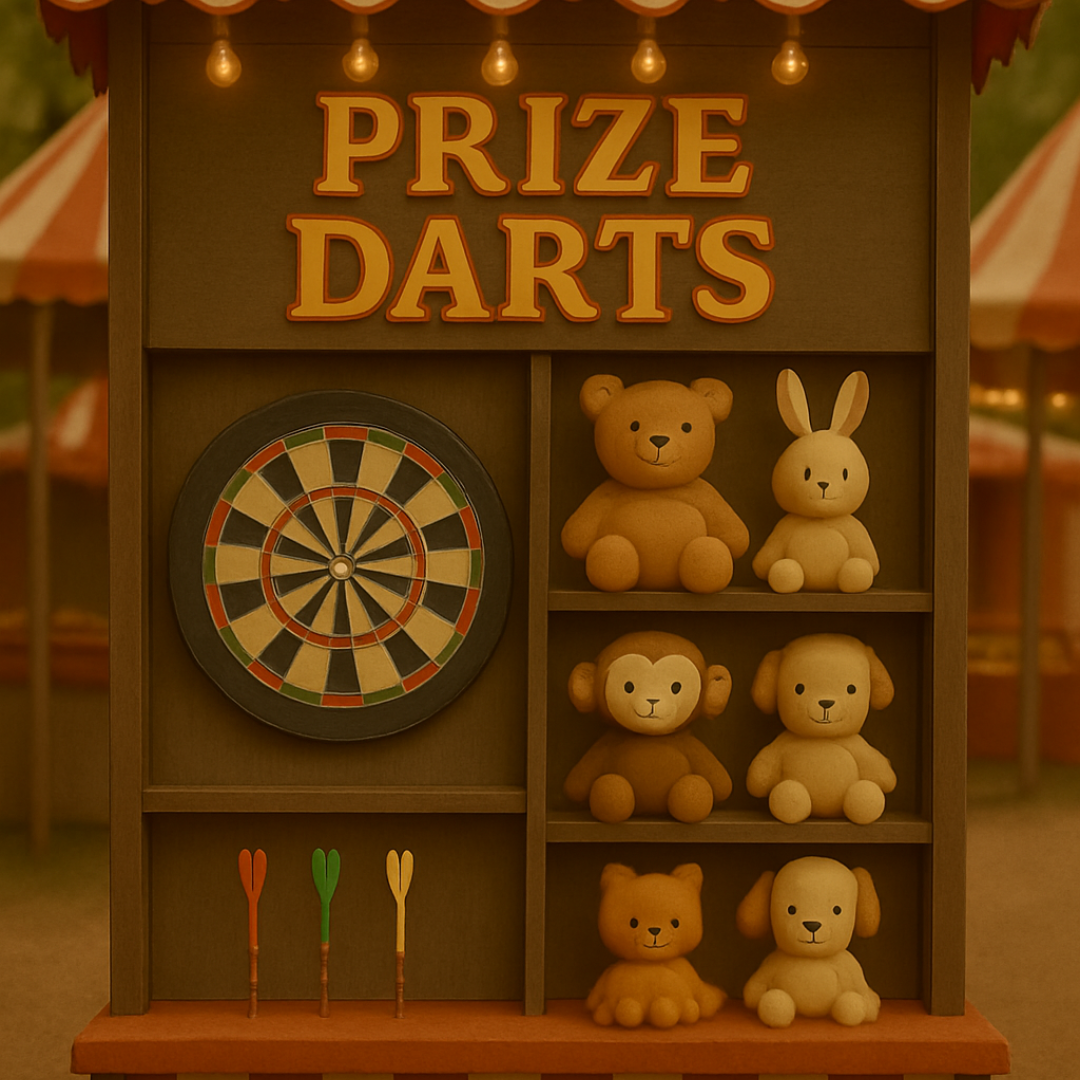
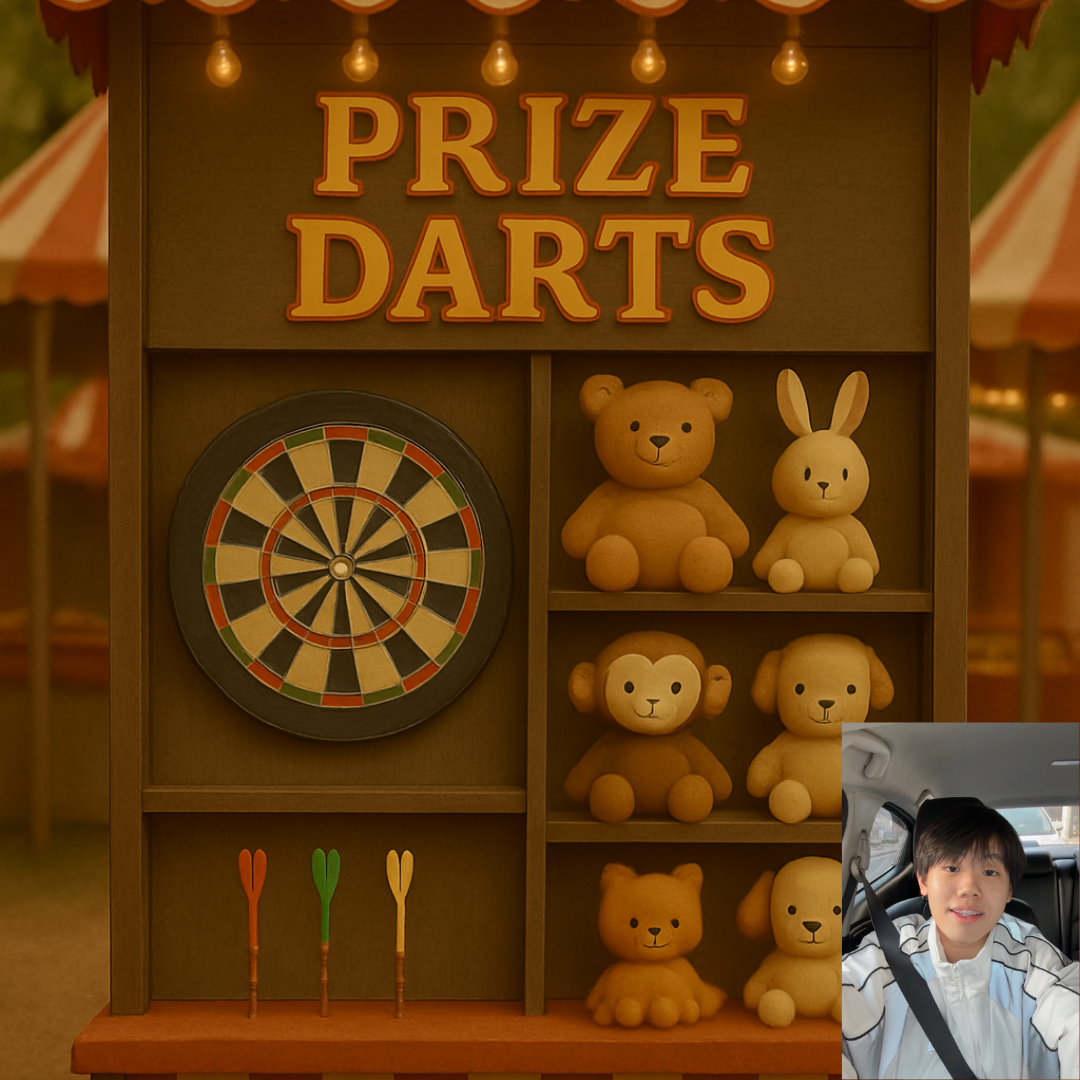
add owner image for booth direct page

Changed region(s): [[0.7639, 0.6417, 1.0, 1.0]]

diff --git a/01-pages/01-00-booth-directory/booth-directory.html b/01-pages/01-00-booth-directory/booth-directory.html
@@ -39,9 +39,9 @@
                     <div class="col-12 col-md-6 col-lg-6 g-4">
                         <div class="products-item">
                             <div class="w3-content w3-section">
-                                <img class="mySlides1" src="/01-pages/01-00-booth-directory/01-images/MR INVISIBLE.webp" style="width:100%">
-                                <img class="mySlides1" src="/01-pages/01-00-booth-directory/01-images/SEA MONSTER.webp" style="width:100%">
-                                <img class="mySlides1" src="/01-pages/01-00-booth-directory/01-images/SOUL EATER.webp" style="width:100%">
+                                <img class="mySlides1" src="/01-pages/01-00-booth-directory/01-images/booth1-1.png" style="width:100%">
+                                <img class="mySlides1" src="/01-pages/01-00-booth-directory/01-images/booth1-2.png" style="width:100%">
+                                <img class="mySlides1" src="/01-pages/01-00-booth-directory/01-images/booth1-3.png" style="width:100%">
                             </div>
                             <h4 class="booth-name">Booth 1</h4>
                             <p class="desc-name">Owner : นายวรเศรษฐ์ จรัสจารุทัศน์</p>
